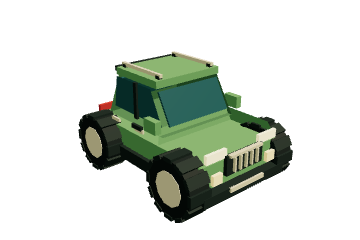
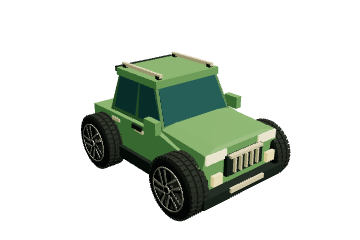
Refine car wheels and repair Modern body geometry

diff --git a/src/game/vehicle.ts b/src/game/vehicle.ts
@@ -5,6 +5,7 @@ import { driveForces, MAX_FORWARD_SPEED, MAX_REVERSE_SPEED, type DriveInput } fr
 import { START } from './terrain';
 import { SURFACES, type Surface, type SurfaceId } from './surfaces';
 import { buildMarsScout } from './mars-scout';
+import { detailedWheel, solidPanel } from './vehicle-geometry';
 
 const WHEEL_RADIUS = 0.48;
 const REST_LENGTH = 0.38;
@@ -126,8 +127,6 @@ export class Vehicle {
     const cladding = mat('#263434');
     const trim = mat('#d9d0b5', 0.45);
     const glass = mat('#315e66', 0.24);
-    const tire = mat('#202b2d');
-    const hub = mat('#ded5bd', 0.38);
     const lights = new THREE.MeshStandardMaterial({
       color: '#fff7d6', emissive: '#ffe5a3', emissiveIntensity: 0.42, roughness: 0.3,
     });
@@ -173,18 +172,8 @@ export class Vehicle {
         -tw, bottomY + height, topFront, tw, bottomY + height, topFront,
         tw, bottomY + height, topRear, -tw, bottomY + height, topRear,
       ];
-      const indices = [
-        0, 2, 1, 0, 3, 2,
-        4, 5, 6, 4, 6, 7,
-        0, 1, 5, 0, 5, 4,
-        1, 2, 6, 1, 6, 5,
-        2, 3, 7, 2, 7, 6,
-        3, 0, 4, 3, 4, 7,
-      ];
-      const geometry = new THREE.BufferGeometry();
-      geometry.setAttribute('position', new THREE.Float32BufferAttribute(vertices, 3));
-      geometry.setIndex(indices);
-      geometry.computeVertexNormals();
+      const points = Array.from({ length: 8 }, (_, i) => vertices.slice(i * 3, i * 3 + 3));
+      const geometry = solidPanel(points);
       return addMesh(geometry, material);
     };
 
@@ -194,33 +183,42 @@ export class Vehicle {
       topFront: number, topRear: number,
       material: THREE.Material,
     ) => {
-      const x = side * 0.711;
-      const geometry = new THREE.BufferGeometry();
-      geometry.setAttribute('position', new THREE.Float32BufferAttribute([
-        x, 0.63, front,
-        x, 0.63, rear,
-        x, 1.17, topRear,
-        x, 1.17, topFront,
-      ], 3));
-      geometry.setIndex(side < 0 ? [0, 1, 2, 0, 2, 3] : [0, 2, 1, 0, 3, 2]);
-      geometry.computeVertexNormals();
-      return addMesh(geometry, material);
+      const points = [
+        [side * 0.725, 0.63, front], [side * 0.725, 0.63, rear],
+        [side * 0.646, 1.17, topRear], [side * 0.646, 1.17, topFront],
+      ];
+      return addMesh(solidPanel([...points, ...points.map(([x, y, z]) => [x - side * 0.012, y, z])]), material);
+    };
+
+    const windscreen = (rear: boolean) => {
+      const points = rear
+        ? [[-0.665, 0.63, 0.942], [0.665, 0.63, 0.942], [0.589, 1.16, 0.802], [-0.589, 1.16, 0.802]]
+        : [[-0.665, 0.64, -0.425], [0.665, 0.64, -0.425], [0.589, 1.16, -0.201], [-0.589, 1.16, -0.201]];
+      addMesh(solidPanel([...points, ...points.map(([x, y, z]) => [x, y, z + (rear ? -0.012 : 0.012)])]), glass);
     };
 
     // Chunky compact-SUV silhouette, kept deliberately simple like a die-cast toy.
-    box(1.62, 0.43, 2.72, 0, 0.15, 0.02, paint);
+    addMesh(solidPanel([
+      [-0.81, -0.065, -1.34], [0.81, -0.065, -1.34], [-0.81, -0.065, 1.38], [0.81, -0.065, 1.38],
+      [-0.81, 0.365, -1.34], [0.81, 0.365, -1.34],
+      [-0.81, 0.58, -0.42], [0.81, 0.58, -0.42], [-0.81, 0.55, 1.38], [0.81, 0.55, 1.38],
+    ]), paint);
     box(1.7, 0.18, 2.64, 0, -0.09, 0.04, cladding);
-    trapezoid(1.58, 1.45, 0.25, -1.38, -0.42, -1.25, -0.37, 0.36, paint);
+    // A shallow crown and sloping shoulders form a solid bonnet, not an open shell.
+    addMesh(solidPanel([
+      [-0.79, 0.35, -1.39], [0.79, 0.35, -1.39], [-0.79, 0.35, -0.38], [0.79, 0.35, -0.38],
+      [-0.74, 0.54, -1.39], [0.74, 0.54, -1.39], [-0.72, 0.61, -0.38], [0.72, 0.61, -0.38],
+      [-0.49, 0.58, -1.34], [0.49, 0.58, -1.34], [-0.47, 0.65, -0.38], [0.47, 0.65, -0.38],
+    ]), paint);
     trapezoid(1.48, 1.27, 0.72, -0.48, 0.97, -0.17, 0.78, 0.49, darkPaint);
     box(1.3, 0.12, 1.06, 0, 1.23, 0.31, paint);
 
     // Windscreens and four distinct side windows give the cabin its angular Karoq-like profile.
-    box(1.22, 0.56, 0.035, 0, 0.87, -0.344, glass, 0.51);
-    box(1.2, 0.51, 0.035, 0, 0.87, 0.869, glass, -0.35);
+    windscreen(false);
+    windscreen(true);
     for (const side of [-1, 1]) {
       sideWindow(side, -0.42, 0.17, -0.15, 0.2, glass);
       sideWindow(side, 0.25, 0.84, 0.23, 0.75, glass);
-      box(0.045, 0.6, 0.075, side * 0.724, 0.89, 0.21, cladding);
       box(0.05, 0.07, 0.24, side * 0.825, 0.52, 0.06, cladding);
       box(0.11, 0.2, 0.28, side * 0.86, 0.69, -0.38, paint);
 
@@ -255,26 +253,9 @@ export class Vehicle {
     box(0.76, 0.08, 0.05, 0, 0.2, 1.455, cladding);
     box(1.2, 0.08, 0.22, 0, 1.24, 0.85, cladding);
 
-    const tireGeo = new THREE.CylinderGeometry(WHEEL_RADIUS, WHEEL_RADIUS, 0.36, 12);
-    const hubGeo = new THREE.CylinderGeometry(0.28, 0.28, 0.375, 10);
-    tireGeo.rotateZ(Math.PI / 2);
-    hubGeo.rotateZ(Math.PI / 2);
-    const treadGeo = new THREE.BoxGeometry(0.39, 0.065, 0.17);
     for (const connection of CONNECTIONS) {
       const wheel = new THREE.Group();
-      const spinner = new THREE.Group();
-      const rubber = new THREE.Mesh(tireGeo, tire);
-      const rim = new THREE.Mesh(hubGeo, hub);
-      rubber.castShadow = true;
-      rim.castShadow = true;
-      spinner.add(rubber, rim);
-      for (let j = 0; j < 12; j++) {
-        const angle = j * Math.PI / 6;
-        const tread = new THREE.Mesh(treadGeo, cladding);
-        tread.position.set(0, Math.cos(angle) * 0.46, Math.sin(angle) * 0.46);
-        tread.rotation.x = angle;
-        spinner.add(tread);
-      }
+      const spinner = detailedWheel('modern', WHEEL_RADIUS);
       wheel.add(spinner);
       wheel.position.set(connection.x, -REST_LENGTH, connection.z);
       this.model.add(wheel);
@@ -315,8 +296,6 @@ export class Vehicle {
     const dark = mat('#293e3d');
     const roof = mat('#ffebc4');
     const glass = mat('#397b7d', 0.25);
-    const tire = mat('#293638');
-    const hub = mat('#efe2be');
     const lights = new THREE.MeshStandardMaterial({
       color: '#fff3cc', emissive: '#ffe4a6', emissiveIntensity: 0.3, roughness: 0.7,
     });
@@ -360,43 +339,25 @@ export class Vehicle {
     box(1.19, 0.08, 0.09, 0, 1.19, -0.28, dark);
     box(1.19, 0.08, 0.09, 0, 1.19, 0.65, dark);
 
-    const tireGeo = new THREE.CylinderGeometry(WHEEL_RADIUS, WHEEL_RADIUS, 0.36, 12);
-    const hubGeo = new THREE.CylinderGeometry(0.27, 0.27, 0.375, 8);
-    tireGeo.rotateZ(Math.PI / 2);
-    hubGeo.rotateZ(Math.PI / 2);
-    const treadGeo = new THREE.BoxGeometry(0.39, 0.065, 0.17);
     for (const connection of CONNECTIONS) {
       const wheel = new THREE.Group();
-      const spinner = new THREE.Group();
-      const rubber = new THREE.Mesh(tireGeo, tire);
-      const rim = new THREE.Mesh(hubGeo, hub);
-      rubber.castShadow = true;
-      rim.castShadow = true;
-      spinner.add(rubber, rim);
-      for (let j = 0; j < 12; j++) {
-        const angle = j * Math.PI / 6;
-        const tread = new THREE.Mesh(treadGeo, dark);
-        tread.position.set(0, Math.cos(angle) * 0.46, Math.sin(angle) * 0.46);
-        tread.rotation.x = angle;
-        spinner.add(tread);
-      }
+      const spinner = detailedWheel('classic', WHEEL_RADIUS);
       wheel.add(spinner);
       wheel.position.set(connection.x, -REST_LENGTH, connection.z);
       this.model.add(wheel);
       this.wheels.push(wheel);
       this.tires.push(spinner);
     }
-    const spare = new THREE.Mesh(tireGeo, tire);
+    const spare = detailedWheel('classic', WHEEL_RADIUS);
     spare.rotation.y = Math.PI / 2;
     spare.position.set(0, 0.53, 1.51);
     spare.scale.setScalar(0.84);
-    spare.castShadow = true;
-    this.bodyVisual.add(spare);
-    const spareHub = new THREE.Mesh(hubGeo, hub);
-    spareHub.rotation.copy(spare.rotation);
-    spareHub.position.copy(spare.position);
-    spareHub.scale.copy(spare.scale);
-    this.bodyVisual.add(spareHub);
+    spare.updateMatrix();
+    for (const child of [...spare.children]) {
+      child.updateMatrix();
+      child.applyMatrix4(spare.matrix);
+      this.bodyVisual.add(child);
+    }
 
     const batch = (group: THREE.Group) => {
       const batches = new Map<THREE.Material, THREE.BufferGeometry[]>();

diff --git a/src/game/vehicle-geometry.ts b/src/game/vehicle-geometry.ts
@@ -1,0 +1,93 @@
+import * as THREE from 'three';
+import { ConvexGeometry } from 'three/addons/geometries/ConvexGeometry.js';
+
+/** Closed, outward-facing panels, with independent normals at each crease. */
+export function solidPanel(points: number[][]) {
+  const geometry = new ConvexGeometry(points.map(([x, y, z]) => new THREE.Vector3(x, y, z)));
+  geometry.setIndex(Array.from({ length: geometry.getAttribute('position').count }, (_, i) => i));
+  return geometry;
+}
+
+/** Wheel axis is X; both faces are finished, including the rear-mounted spare. */
+export function detailedWheel(style: 'classic' | 'modern', radius: number) {
+  const group = new THREE.Group();
+  const classic = style === 'classic';
+  const rubber = new THREE.MeshStandardMaterial({ color: '#202829', roughness: 0.94 });
+  const tread = new THREE.MeshStandardMaterial({ color: '#303839', roughness: 0.96 });
+  const black = new THREE.MeshStandardMaterial({ color: '#182024', roughness: 0.34, metalness: 0.55 });
+  const alloy = new THREE.MeshStandardMaterial({ color: classic ? '#ded4b9' : '#dce3e6', roughness: 0.3, metalness: 0.7 });
+  const brake = new THREE.MeshStandardMaterial({ color: '#555b5b', roughness: 0.75, metalness: 0.45 });
+  const add = (geometry: THREE.BufferGeometry, material: THREE.Material) => {
+    if (!geometry.index) geometry.setIndex(Array.from({ length: geometry.getAttribute('position').count }, (_, i) => i));
+    const mesh = new THREE.Mesh(geometry, material);
+    mesh.castShadow = mesh.receiveShadow = true;
+    group.add(mesh);
+    return mesh;
+  };
+  const rimRadius = classic ? 0.285 : 0.325;
+  const profile = [
+    [rimRadius, -0.17], [rimRadius + 0.025, -0.185], [radius - 0.055, -0.18],
+    [radius - 0.022, -0.135], [radius - 0.016, -0.09], [radius - 0.016, 0.09],
+    [radius - 0.022, 0.135], [radius - 0.055, 0.18], [rimRadius + 0.025, 0.185],
+    [rimRadius, 0.17], [rimRadius, -0.17],
+  ];
+  add(new THREE.LatheGeometry(profile.map(([r, x]) => new THREE.Vector2(r, x)), 40).rotateZ(Math.PI / 2), rubber);
+  const block = new THREE.BoxGeometry(classic ? 0.095 : 0.085, 0.028, classic ? 0.09 : 0.065);
+  for (let row = 0; row < 3; row++) for (let i = 0; i < (classic ? 28 : 36); i++) {
+    const angle = (i + (row % 2) * 0.5) * Math.PI * 2 / (classic ? 28 : 36);
+    const mesh = add(block, tread);
+    mesh.position.set((row - 1) * 0.112, (radius - 0.014) * Math.cos(angle), (radius - 0.014) * Math.sin(angle));
+    mesh.rotation.x = angle;
+  }
+  const disk = (r: number, depth: number, x: number, material: THREE.Material) => {
+    const mesh = add(new THREE.CylinderGeometry(r, r, depth, 40).rotateZ(Math.PI / 2), material);
+    mesh.position.x = x;
+    return mesh;
+  };
+  const ring = (r: number, tube: number, x: number, material: THREE.Material) => {
+    const mesh = add(new THREE.TorusGeometry(r, tube, 6, 40).rotateY(Math.PI / 2), material);
+    mesh.position.x = x;
+  };
+  for (const side of [-1, 1]) {
+    disk(rimRadius - 0.016, 0.02, side * 0.105, brake);
+    ring(rimRadius - 0.009, 0.018, side * 0.174, black);
+    ring(rimRadius, 0.012, side * 0.188, alloy);
+    if (classic) {
+      // Eight steel spokes leave real recessed ventilation openings.
+      disk(0.13, 0.045, side * 0.18, alloy);
+      for (let i = 0; i < 8; i++) {
+        const angle = i * Math.PI / 4;
+        const spoke = add(new THREE.BoxGeometry(0.038, 0.16, 0.07), alloy);
+        spoke.position.set(side * 0.177, Math.cos(angle) * 0.198, Math.sin(angle) * 0.198);
+        spoke.rotation.x = angle;
+      }
+      ring(0.245, 0.012, side * 0.18, alloy);
+    } else {
+      // Five swept split spokes: dark sculpted blades with machined silver edges.
+      for (let i = 0; i < 5; i++) {
+        const angle = i * Math.PI * 2 / 5;
+        const blade = (points: number[][], x: number, depth: number, material: THREE.Material) => {
+          const vertices = [x, x + side * depth].flatMap(axial => points.map(([radial, tangent]) => [
+            axial, radial * Math.cos(angle) - tangent * Math.sin(angle),
+            radial * Math.sin(angle) + tangent * Math.cos(angle),
+          ]));
+          add(solidPanel(vertices), material);
+        };
+        blade([[0.075, -0.04], [0.15, -0.033], [0.315, -0.01], [0.29, 0.07]], side * 0.151, 0.045, black);
+        blade([[0.09, -0.02], [0.14, -0.025], [0.257, -0.176], [0.225, -0.199]], side * 0.151, 0.045, black);
+        blade([[0.09, 0.006], [0.12, 0.032], [0.29, 0.07], [0.31, 0.028]], side * 0.198, 0.006, alloy);
+        blade([[0.09, -0.02], [0.11, -0.005], [0.253, -0.176], [0.225, -0.199]], side * 0.198, 0.006, alloy);
+      }
+      disk(0.105, 0.04, side * 0.175, black);
+    }
+    disk(0.064, 0.018, side * 0.207, alloy);
+    disk(0.042, 0.021, side * 0.21, black);
+    for (let i = 0; i < 5; i++) {
+      const angle = i * Math.PI * 2 / 5;
+      const bolt = disk(0.012, 0.012, side * 0.207, alloy);
+      bolt.position.y = Math.cos(angle) * 0.088;
+      bolt.position.z = Math.sin(angle) * 0.088;
+    }
+  }
+  return group;
+}

diff --git a/tests/vehicle-geometry.test.ts b/tests/vehicle-geometry.test.ts
@@ -1,0 +1,42 @@
+import assert from 'node:assert/strict';
+import { test } from 'node:test';
+import * as THREE from 'three';
+import RAPIER from '@dimforge/rapier3d-compat';
+import { Vehicle } from '../src/game/vehicle';
+import { disposeScene } from '../src/game/dispose';
+
+test('Modern bonnet and sloping cabin expose their exterior faces on both sides', async () => {
+  await RAPIER.init();
+  const scene = new THREE.Scene();
+  const world = new RAPIER.World({ x: 0, y: -18, z: 0 });
+  try {
+    const vehicle = new Vehicle(scene, world, { x: 0, y: 0, z: 0 });
+    scene.updateMatrixWorld(true);
+    const hit = (origin: number[], direction: number[]) => {
+      const hits = new THREE.Raycaster(new THREE.Vector3(...origin), new THREE.Vector3(...direction))
+        .intersectObject(vehicle.bodyVisual, true);
+      assert.ok(hits.length, 'Exterior must be visible using ordinary front-face culling');
+      return hits[0];
+    };
+    for (const x of [-0.4, 0, 0.4]) {
+      const bonnet = hit([x, 2, -0.9], [0, -1, 0]);
+      assert.ok(bonnet.point.y > 0.60 && bonnet.point.y < 0.65, 'Hit crowned bonnet, not chassis below');
+      assert.ok(bonnet.face!.normal.y > 0.9);
+    }
+    for (const side of [-1, 1]) {
+      const beltline = hit([side * 2, 0.44, 0.4], [-side, 0, 0]);
+      assert.ok(Math.abs(beltline.point.x) > 0.8, 'Cabin and chassis must meet without a gap');
+      const window = hit([side * 2, 0.9, 0], [-side, 0, 0]);
+      assert.ok(Math.abs(window.point.x) > 0.68 && Math.abs(window.point.x) < 0.70);
+      assert.ok(window.face!.normal.x * side > 0.9, 'Side glass must face outward');
+      const material = (window.object as THREE.Mesh).material as THREE.MeshStandardMaterial;
+      assert.equal(material.color.getHexString(), '315e66');
+    }
+    const windshield = hit([0, 0.9, -3], [0, 0, 1]);
+    assert.ok(windshield.point.z < -0.3 && windshield.point.z > -0.33);
+    assert.ok(windshield.face!.normal.z < -0.8);
+  } finally {
+    disposeScene(scene);
+    world.free();
+  }
+});
